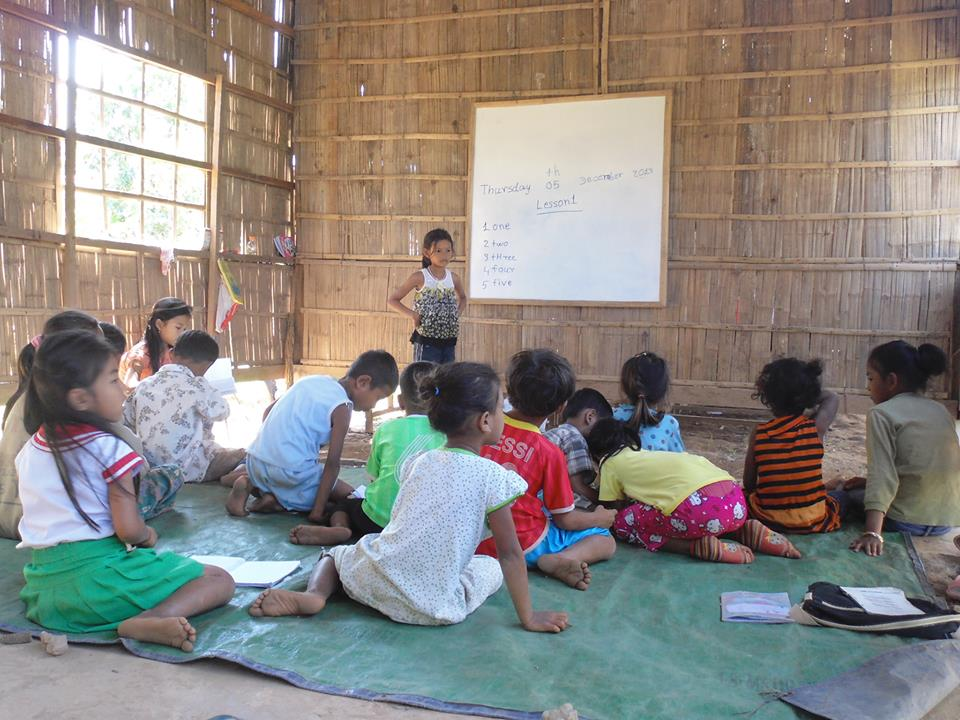
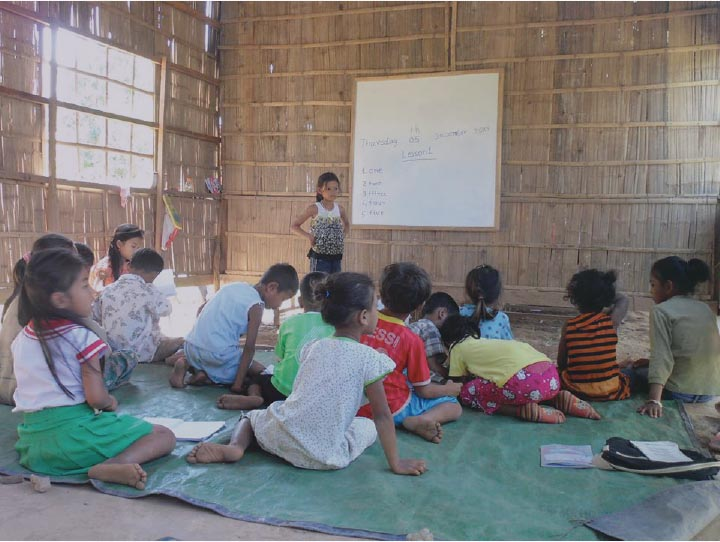
optimized some of the larger image sizes

diff --git a/fle_site/apps/main/templates/main/partials/_kickstarter_intro2.html b/fle_site/apps/main/templates/main/partials/_kickstarter_intro2.html
@@ -3,7 +3,7 @@
 <div class="container-fluid below-fold2">
 		<div class="row">
                         <div class="col-md-8 kolibri-statement" >
-                        	 <img id="kolibri_logo" src="/static/img/kickstarter/about/kolibri.png">
+                        	 <img id="kolibri_logo" src="/static/img/kickstarter/about/kolibri.jpg">
                                 <h1>Kolibri<h1>
                                 <h2>Kolibri will bring high quality online educational content offline </h2>
                                 <!-- <h3>For people who want to learn, but lack internet access</h3> -->
@@ -38,14 +38,4 @@
                         </div>
         </div>
 
-
-
-
-
-		<!-- <img src="{% static 'img/kickstarter/about/kolibri.png' %}">
-		<p>Kolibri</p>
-	</div>
-	<div class="col-md-4 col-md-offset-4">
-		<span>Kolibri is an app that will bring high quality online educational content to people who want to learn, but lack Internet access.</span>
-	</div> -->
 </div>

diff --git a/fle_site/apps/main/templates/main/partials/_kickstarter_footer.html b/fle_site/apps/main/templates/main/partials/_kickstarter_footer.html
@@ -3,7 +3,7 @@
 <h1 id="dreams">Help someone's dream take flight</h1>
 
 <div class="foot_containor">
-	<img id="footer-kolibri" src="{% static 'img/kickstarter/about/kolibri.png' %}">
+	<img id="footer-kolibri" src="{% static 'img/kickstarter/about/kolibri.jpg' %}">
 	<!-- <img id="footer-kickstarter" src="{% static 'img/kickstarter/kickstarter-logo.png' %}"> -->
     <h3 class="lowcase">Join our October campaign!<br>Coming soon</h3>
     <div id="sign-up">

diff --git a/fle_site/apps/main/templates/main/partials/_kickstarter_features_tiledesign.html b/fle_site/apps/main/templates/main/partials/_kickstarter_features_tiledesign.html
@@ -7,7 +7,7 @@
 <div class="container-fluid" id="feature-container">
 	<div class="col-md-5 feature-space">
 		<div>
-			<img src="{% static 'img/kickstarter/about/kolibri.png' %}">
+			<img src="{% static 'img/kickstarter/about/kolibri.jpg' %}">
 		</div>
 		<span id="kolibri-name">Kolibri</span>
 		<div>
